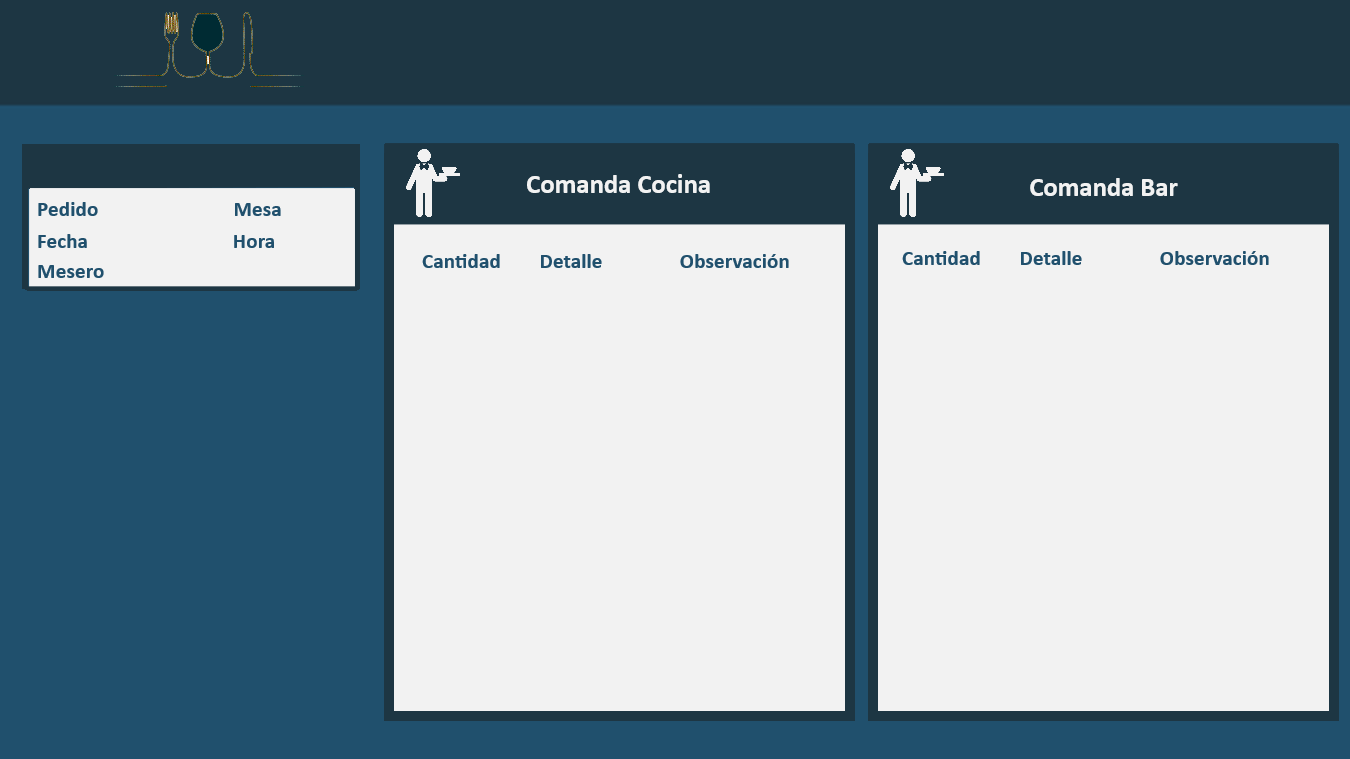
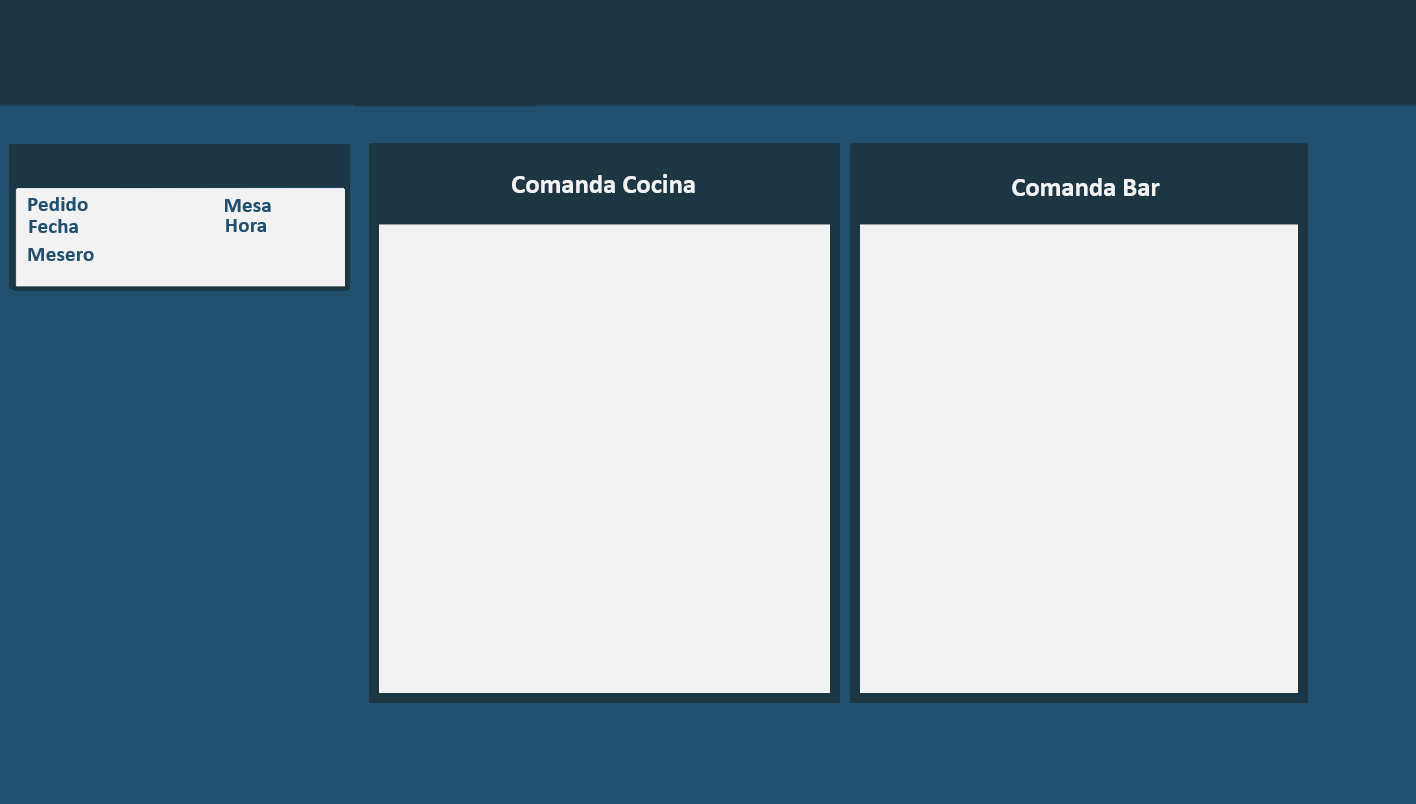
Primer ejecutable..

Changed region(s): [[0.0, 0.1212, 1.0, 0.9697], [0.1244, 0.0, 0.1867, 0.0909], [0.4044, 0.3333, 0.4667, 0.3636]]

diff --git a/src/com/codigovago/vista/FrmComandas.java b/src/com/codigovago/vista/FrmComandas.java
@@ -4,9 +4,9 @@
  * and open the template in the editor.
  */
 package com.codigovago.vista;
-
-import com.codigovago.modelo.Fecha;
-import com.codigovago.modelo.FechaHora;
+ 
+import com.codigovago.controlador.Roles;
+import com.codigovago.modelo.Fecha; 
 import com.codigovago.modelo.Hora;
 import com.codigovago.modelo.accesoDatos.Conexion;
 import java.sql.Connection;
@@ -15,6 +15,8 @@ import java.sql.SQLException;
 import java.sql.Statement;
 import java.util.logging.Level;
 import java.util.logging.Logger;
+import javax.swing.ImageIcon;
+import javax.swing.JOptionPane;
 import javax.swing.table.DefaultTableModel;
 
 /**
@@ -30,7 +32,8 @@ public final class FrmComandas extends javax.swing.JFrame {
     Fecha fecha;
     Conexion cn = new Conexion();
     Connection conexion = cn.getConexion();
-
+    Roles Roles = new Roles();
+    
     public FrmComandas() {
         this.setUndecorated(true);
         initComponents();
@@ -118,7 +121,7 @@ public final class FrmComandas extends javax.swing.JFrame {
 
         btnCancelar = new javax.swing.JButton();
         btnMinimizar = new javax.swing.JButton();
-        btnPreparar1 = new javax.swing.JButton();
+        btnCuenta = new javax.swing.JButton();
         jScrollPane1 = new javax.swing.JScrollPane();
         txtDescripcion = new javax.swing.JTextArea();
         btnAgregar = new javax.swing.JButton();
@@ -138,15 +141,16 @@ public final class FrmComandas extends javax.swing.JFrame {
         getContentPane().setLayout(new org.netbeans.lib.awtextra.AbsoluteLayout());
 
         btnCancelar.setFont(new java.awt.Font("Calibri", 1, 18)); // NOI18N
-        btnCancelar.setText("Modificar Comanda");
+        btnCancelar.setIcon(new javax.swing.ImageIcon(getClass().getResource("/com/codigovago/assets/ModificarComanda.png"))); // NOI18N
+        btnCancelar.setContentAreaFilled(false);
         btnCancelar.addActionListener(new java.awt.event.ActionListener() {
             public void actionPerformed(java.awt.event.ActionEvent evt) {
                 btnCancelarActionPerformed(evt);
             }
         });
-        getContentPane().add(btnCancelar, new org.netbeans.lib.awtextra.AbsoluteConstraints(20, 510, 340, 50));
+        getContentPane().add(btnCancelar, new org.netbeans.lib.awtextra.AbsoluteConstraints(40, 610, 320, 70));
 
-        btnMinimizar.setIcon(new javax.swing.ImageIcon(getClass().getResource("/com/codigovago/assets/icons/min.png"))); // NOI18N
+        btnMinimizar.setIcon(new javax.swing.ImageIcon(getClass().getResource("/com/codigovago/assets/icons/max.png"))); // NOI18N
         btnMinimizar.setBorderPainted(false);
         btnMinimizar.setContentAreaFilled(false);
         btnMinimizar.addActionListener(new java.awt.event.ActionListener() {
@@ -154,11 +158,17 @@ public final class FrmComandas extends javax.swing.JFrame {
                 btnMinimizarActionPerformed(evt);
             }
         });
-        getContentPane().add(btnMinimizar, new org.netbeans.lib.awtextra.AbsoluteConstraints(1280, 20, 40, 50));
+        getContentPane().add(btnMinimizar, new org.netbeans.lib.awtextra.AbsoluteConstraints(1270, 20, 40, 50));
 
-        btnPreparar1.setFont(new java.awt.Font("Calibri", 1, 18)); // NOI18N
-        btnPreparar1.setText("Cerrar cuenta");
-        getContentPane().add(btnPreparar1, new org.netbeans.lib.awtextra.AbsoluteConstraints(200, 440, 160, 50));
+        btnCuenta.setFont(new java.awt.Font("Calibri", 1, 18)); // NOI18N
+        btnCuenta.setIcon(new javax.swing.ImageIcon(getClass().getResource("/com/codigovago/assets/comandaLista.png"))); // NOI18N
+        btnCuenta.setContentAreaFilled(false);
+        btnCuenta.addActionListener(new java.awt.event.ActionListener() {
+            public void actionPerformed(java.awt.event.ActionEvent evt) {
+                btnCuentaActionPerformed(evt);
+            }
+        });
+        getContentPane().add(btnCuenta, new org.netbeans.lib.awtextra.AbsoluteConstraints(80, 500, 210, 60));
 
         txtDescripcion.setColumns(20);
         txtDescripcion.setRows(5);
@@ -167,28 +177,34 @@ public final class FrmComandas extends javax.swing.JFrame {
         getContentPane().add(jScrollPane1, new org.netbeans.lib.awtextra.AbsoluteConstraints(20, 300, 340, 120));
 
         btnAgregar.setFont(new java.awt.Font("Calibri", 1, 18)); // NOI18N
-        btnAgregar.setText("Agregar");
-        getContentPane().add(btnAgregar, new org.netbeans.lib.awtextra.AbsoluteConstraints(20, 440, 160, 50));
+        btnAgregar.setIcon(new javax.swing.ImageIcon(getClass().getResource("/com/codigovago/assets/añadir.png"))); // NOI18N
+        btnAgregar.setContentAreaFilled(false);
+        getContentPane().add(btnAgregar, new org.netbeans.lib.awtextra.AbsoluteConstraints(80, 430, 210, 60));
 
         jLabel2.setFont(new java.awt.Font("Calibri", 1, 20)); // NOI18N
         jLabel2.setForeground(new java.awt.Color(255, 255, 255));
         jLabel2.setText("Observaciones (campo opcional)");
         getContentPane().add(jLabel2, new org.netbeans.lib.awtextra.AbsoluteConstraints(30, 270, -1, -1));
 
+        lblPedido.setFont(new java.awt.Font("Tahoma", 1, 16)); // NOI18N
         lblPedido.setText("1");
-        getContentPane().add(lblPedido, new org.netbeans.lib.awtextra.AbsoluteConstraints(110, 180, 30, -1));
+        getContentPane().add(lblPedido, new org.netbeans.lib.awtextra.AbsoluteConstraints(110, 170, 110, -1));
 
+        lblFechaComanda.setFont(new java.awt.Font("Tahoma", 1, 16)); // NOI18N
         lblFechaComanda.setText("12/12/1232");
-        getContentPane().add(lblFechaComanda, new org.netbeans.lib.awtextra.AbsoluteConstraints(110, 210, -1, -1));
+        getContentPane().add(lblFechaComanda, new org.netbeans.lib.awtextra.AbsoluteConstraints(110, 190, -1, -1));
 
-        lblHoraComanda.setText("12:12:12");
-        getContentPane().add(lblHoraComanda, new org.netbeans.lib.awtextra.AbsoluteConstraints(290, 210, -1, -1));
+        lblHoraComanda.setFont(new java.awt.Font("Tahoma", 1, 16)); // NOI18N
+        lblHoraComanda.setText("12:12");
+        getContentPane().add(lblHoraComanda, new org.netbeans.lib.awtextra.AbsoluteConstraints(290, 190, 70, -1));
 
+        lblMesa.setFont(new java.awt.Font("Tahoma", 1, 16)); // NOI18N
         lblMesa.setText("1");
-        getContentPane().add(lblMesa, new org.netbeans.lib.awtextra.AbsoluteConstraints(300, 180, -1, -1));
+        getContentPane().add(lblMesa, new org.netbeans.lib.awtextra.AbsoluteConstraints(290, 170, 60, -1));
 
+        lblMesero.setFont(new java.awt.Font("Tahoma", 1, 16)); // NOI18N
         lblMesero.setText("Jeison Caguana");
-        getContentPane().add(lblMesero, new org.netbeans.lib.awtextra.AbsoluteConstraints(120, 240, -1, -1));
+        getContentPane().add(lblMesero, new org.netbeans.lib.awtextra.AbsoluteConstraints(110, 220, -1, -1));
 
         comandaCocina = new javax.swing.JTable(){
             public boolean isCellEditable(int rowIndex, int colIndex){
@@ -208,7 +224,7 @@ public final class FrmComandas extends javax.swing.JFrame {
         ));
         jScrollPane2.setViewportView(comandaCocina);
 
-        getContentPane().add(jScrollPane2, new org.netbeans.lib.awtextra.AbsoluteConstraints(400, 200, 440, 470));
+        getContentPane().add(jScrollPane2, new org.netbeans.lib.awtextra.AbsoluteConstraints(380, 200, 450, 460));
 
         comandaBar = new javax.swing.JTable(){
             public boolean isCellEditable(int rowIndex, int colIndex){
@@ -227,10 +243,10 @@ public final class FrmComandas extends javax.swing.JFrame {
         ));
         jScrollPane5.setViewportView(comandaBar);
 
-        getContentPane().add(jScrollPane5, new org.netbeans.lib.awtextra.AbsoluteConstraints(880, 200, 450, 470));
+        getContentPane().add(jScrollPane5, new org.netbeans.lib.awtextra.AbsoluteConstraints(860, 200, 440, 460));
 
         FondoOrden.setIcon(new javax.swing.ImageIcon(getClass().getResource("/com/codigovago/assets/Comanda3.png"))); // NOI18N
-        getContentPane().add(FondoOrden, new org.netbeans.lib.awtextra.AbsoluteConstraints(0, -20, 1350, 750));
+        getContentPane().add(FondoOrden, new org.netbeans.lib.awtextra.AbsoluteConstraints(0, -20, 1390, 790));
 
         pack();
     }// </editor-fold>//GEN-END:initComponents
@@ -244,15 +260,25 @@ public final class FrmComandas extends javax.swing.JFrame {
     }//GEN-LAST:event_btnCancelarActionPerformed
 
     private void btnMinimizarActionPerformed(java.awt.event.ActionEvent evt) {//GEN-FIRST:event_btnMinimizarActionPerformed
-        this.setExtendedState(ICONIFIED);
+        ImageIcon salir = new ImageIcon(getClass().getResource("../assets/icons/alerta.png"));
+        int input = JOptionPane.showConfirmDialog(null, "¿Seguro desea cancelar la comanda?", "Cancelar Comanda", JOptionPane.YES_NO_OPTION, JOptionPane.QUESTION_MESSAGE, salir);
+        if (input == 0) {
+            Roles.rolMesero();
+            this.setVisible(false); 
+        } 
     }//GEN-LAST:event_btnMinimizarActionPerformed
+
+    private void btnCuentaActionPerformed(java.awt.event.ActionEvent evt) {//GEN-FIRST:event_btnCuentaActionPerformed
+        Roles.rolMesero();
+        this.setVisible(false); 
+    }//GEN-LAST:event_btnCuentaActionPerformed
 
     // Variables declaration - do not modify//GEN-BEGIN:variables
     private javax.swing.JLabel FondoOrden;
     private javax.swing.JButton btnAgregar;
     private javax.swing.JButton btnCancelar;
+    private javax.swing.JButton btnCuenta;
     private javax.swing.JButton btnMinimizar;
-    private javax.swing.JButton btnPreparar1;
     private javax.swing.JTable comandaBar;
     private javax.swing.JTable comandaCocina;
     private javax.swing.JLabel jLabel2;

diff --git a/src/com/codigovago/vista/FrmPlato.java b/src/com/codigovago/vista/FrmPlato.java
@@ -201,7 +201,7 @@ public final class FrmPlato extends javax.swing.JFrame {
         });
         jScrollPane1.setViewportView(tblComanda);
 
-        getContentPane().add(jScrollPane1, new org.netbeans.lib.awtextra.AbsoluteConstraints(620, 150, 710, 370));
+        getContentPane().add(jScrollPane1, new org.netbeans.lib.awtextra.AbsoluteConstraints(580, 150, 690, 370));
 
         lblNumMesa.setFont(new java.awt.Font("Calibri", 1, 20)); // NOI18N
         lblNumMesa.setForeground(new java.awt.Color(255, 255, 255));
@@ -266,7 +266,7 @@ public final class FrmPlato extends javax.swing.JFrame {
                 btnSalirActionPerformed(evt);
             }
         });
-        getContentPane().add(btnSalir, new org.netbeans.lib.awtextra.AbsoluteConstraints(1290, 10, 50, 50));
+        getContentPane().add(btnSalir, new org.netbeans.lib.awtextra.AbsoluteConstraints(1230, 10, 50, 50));
 
         txtCantidad.setFont(new java.awt.Font("Calibri", 1, 18)); // NOI18N
         txtCantidad.setModel(new javax.swing.DefaultComboBoxModel<>(new String[] { "1", "2", "3", "4", "5", "6", "7", "8", "9", "10" }));
@@ -386,12 +386,12 @@ public final class FrmPlato extends javax.swing.JFrame {
                         .addComponent(quitar, javax.swing.GroupLayout.Alignment.LEADING, javax.swing.GroupLayout.PREFERRED_SIZE, 0, Short.MAX_VALUE)
                         .addComponent(btnAgregar, javax.swing.GroupLayout.Alignment.LEADING, javax.swing.GroupLayout.PREFERRED_SIZE, 197, javax.swing.GroupLayout.PREFERRED_SIZE))
                     .addComponent(btnNuevo, javax.swing.GroupLayout.PREFERRED_SIZE, 197, javax.swing.GroupLayout.PREFERRED_SIZE))
-                .addContainerGap(23, Short.MAX_VALUE))
+                .addContainerGap(javax.swing.GroupLayout.DEFAULT_SIZE, Short.MAX_VALUE))
         );
         jPanel2Layout.setVerticalGroup(
             jPanel2Layout.createParallelGroup(javax.swing.GroupLayout.Alignment.LEADING)
             .addGroup(jPanel2Layout.createSequentialGroup()
-                .addGap(8, 8, 8)
+                .addContainerGap()
                 .addComponent(btnAgregar, javax.swing.GroupLayout.PREFERRED_SIZE, 62, javax.swing.GroupLayout.PREFERRED_SIZE)
                 .addGap(18, 18, 18)
                 .addComponent(btnActualizar, javax.swing.GroupLayout.PREFERRED_SIZE, 50, javax.swing.GroupLayout.PREFERRED_SIZE)
@@ -399,10 +399,10 @@ public final class FrmPlato extends javax.swing.JFrame {
                 .addComponent(quitar, javax.swing.GroupLayout.PREFERRED_SIZE, 55, javax.swing.GroupLayout.PREFERRED_SIZE)
                 .addGap(18, 18, 18)
                 .addComponent(btnNuevo, javax.swing.GroupLayout.PREFERRED_SIZE, 61, javax.swing.GroupLayout.PREFERRED_SIZE)
-                .addContainerGap(35, Short.MAX_VALUE))
+                .addContainerGap(32, Short.MAX_VALUE))
         );
 
-        getContentPane().add(jPanel2, new org.netbeans.lib.awtextra.AbsoluteConstraints(380, 150, 230, 340));
+        getContentPane().add(jPanel2, new org.netbeans.lib.awtextra.AbsoluteConstraints(370, 150, 210, 340));
 
         jLabel1.setIcon(new javax.swing.ImageIcon(getClass().getResource("/com/codigovago/assets/icons/descarga.png"))); // NOI18N
         getContentPane().add(jLabel1, new org.netbeans.lib.awtextra.AbsoluteConstraints(30, 0, 100, 90));
@@ -417,7 +417,7 @@ public final class FrmPlato extends javax.swing.JFrame {
     }// </editor-fold>//GEN-END:initComponents
     private void btnSalirActionPerformed(java.awt.event.ActionEvent evt) {//GEN-FIRST:event_btnSalirActionPerformed
         ImageIcon salir = new ImageIcon(getClass().getResource("../assets/icons/alerta.png"));
-        int input = JOptionPane.showConfirmDialog(null, "¿Seguro desea canselar la orden?", "Cancelar Comanda", JOptionPane.YES_NO_OPTION, JOptionPane.QUESTION_MESSAGE, salir);
+        int input = JOptionPane.showConfirmDialog(null, "¿Seguro desea cancelar la orden?", "Cancelar Comanda", JOptionPane.YES_NO_OPTION, JOptionPane.QUESTION_MESSAGE, salir);
         if (input == 0) {
             Roles.rolMesero();
             this.setVisible(false);

diff --git a/src/com/codigovago/vista/FrmMesa.java b/src/com/codigovago/vista/FrmMesa.java
@@ -43,8 +43,7 @@ public final class FrmMesa extends javax.swing.JFrame {
         this.ban = ban;
         FrmPlato FrmOrden = new FrmPlato();
         FrmOrden.setVisible(true);
-        this.setVisible(false);
-        this.removeAll();
+        this.setVisible(false); 
     }
     
     @SuppressWarnings("unchecked")
@@ -524,8 +523,7 @@ public final class FrmMesa extends javax.swing.JFrame {
         int input = JOptionPane.showConfirmDialog(null, "¿Seguro desea serrar sesión?", "Serrar Sessión", JOptionPane.YES_NO_OPTION, JOptionPane.QUESTION_MESSAGE, salir);
         if (input == 0) {
             Roles.index();
-            this.setVisible(false);
-            this.removeAll();
+            this.setVisible(false); 
         }
     }//GEN-LAST:event_btnSalirActionPerformed
     private void btnMesa20ActionPerformed(java.awt.event.ActionEvent evt) {//GEN-FIRST:event_btnMesa20ActionPerformed

diff --git a/src/com/codigovago/modelo/Hora.java b/src/com/codigovago/modelo/Hora.java
@@ -25,7 +25,7 @@ public class Hora implements Runnable {
     }  
     public String Tiempo1() {
         Date date = new Date(); 
-        DateFormat hora  = new SimpleDateFormat("HH:mm:ss");
+        DateFormat hora  = new SimpleDateFormat("HH:mm");
         return (hora.format(date));
     }
     @Override

diff --git a/src/com/codigovago/modelo/accesoDatos/CorreoElectronico.java b/src/com/codigovago/modelo/accesoDatos/CorreoElectronico.java
@@ -61,7 +61,7 @@ public class CorreoElectronico extends Conexion {
             return 1;
         } catch (SQLException e) {
             JOptionPane.showMessageDialog(null, e.toString());
-            return 1;
+            return 0;
         } finally {
             try {
                 con.close();
